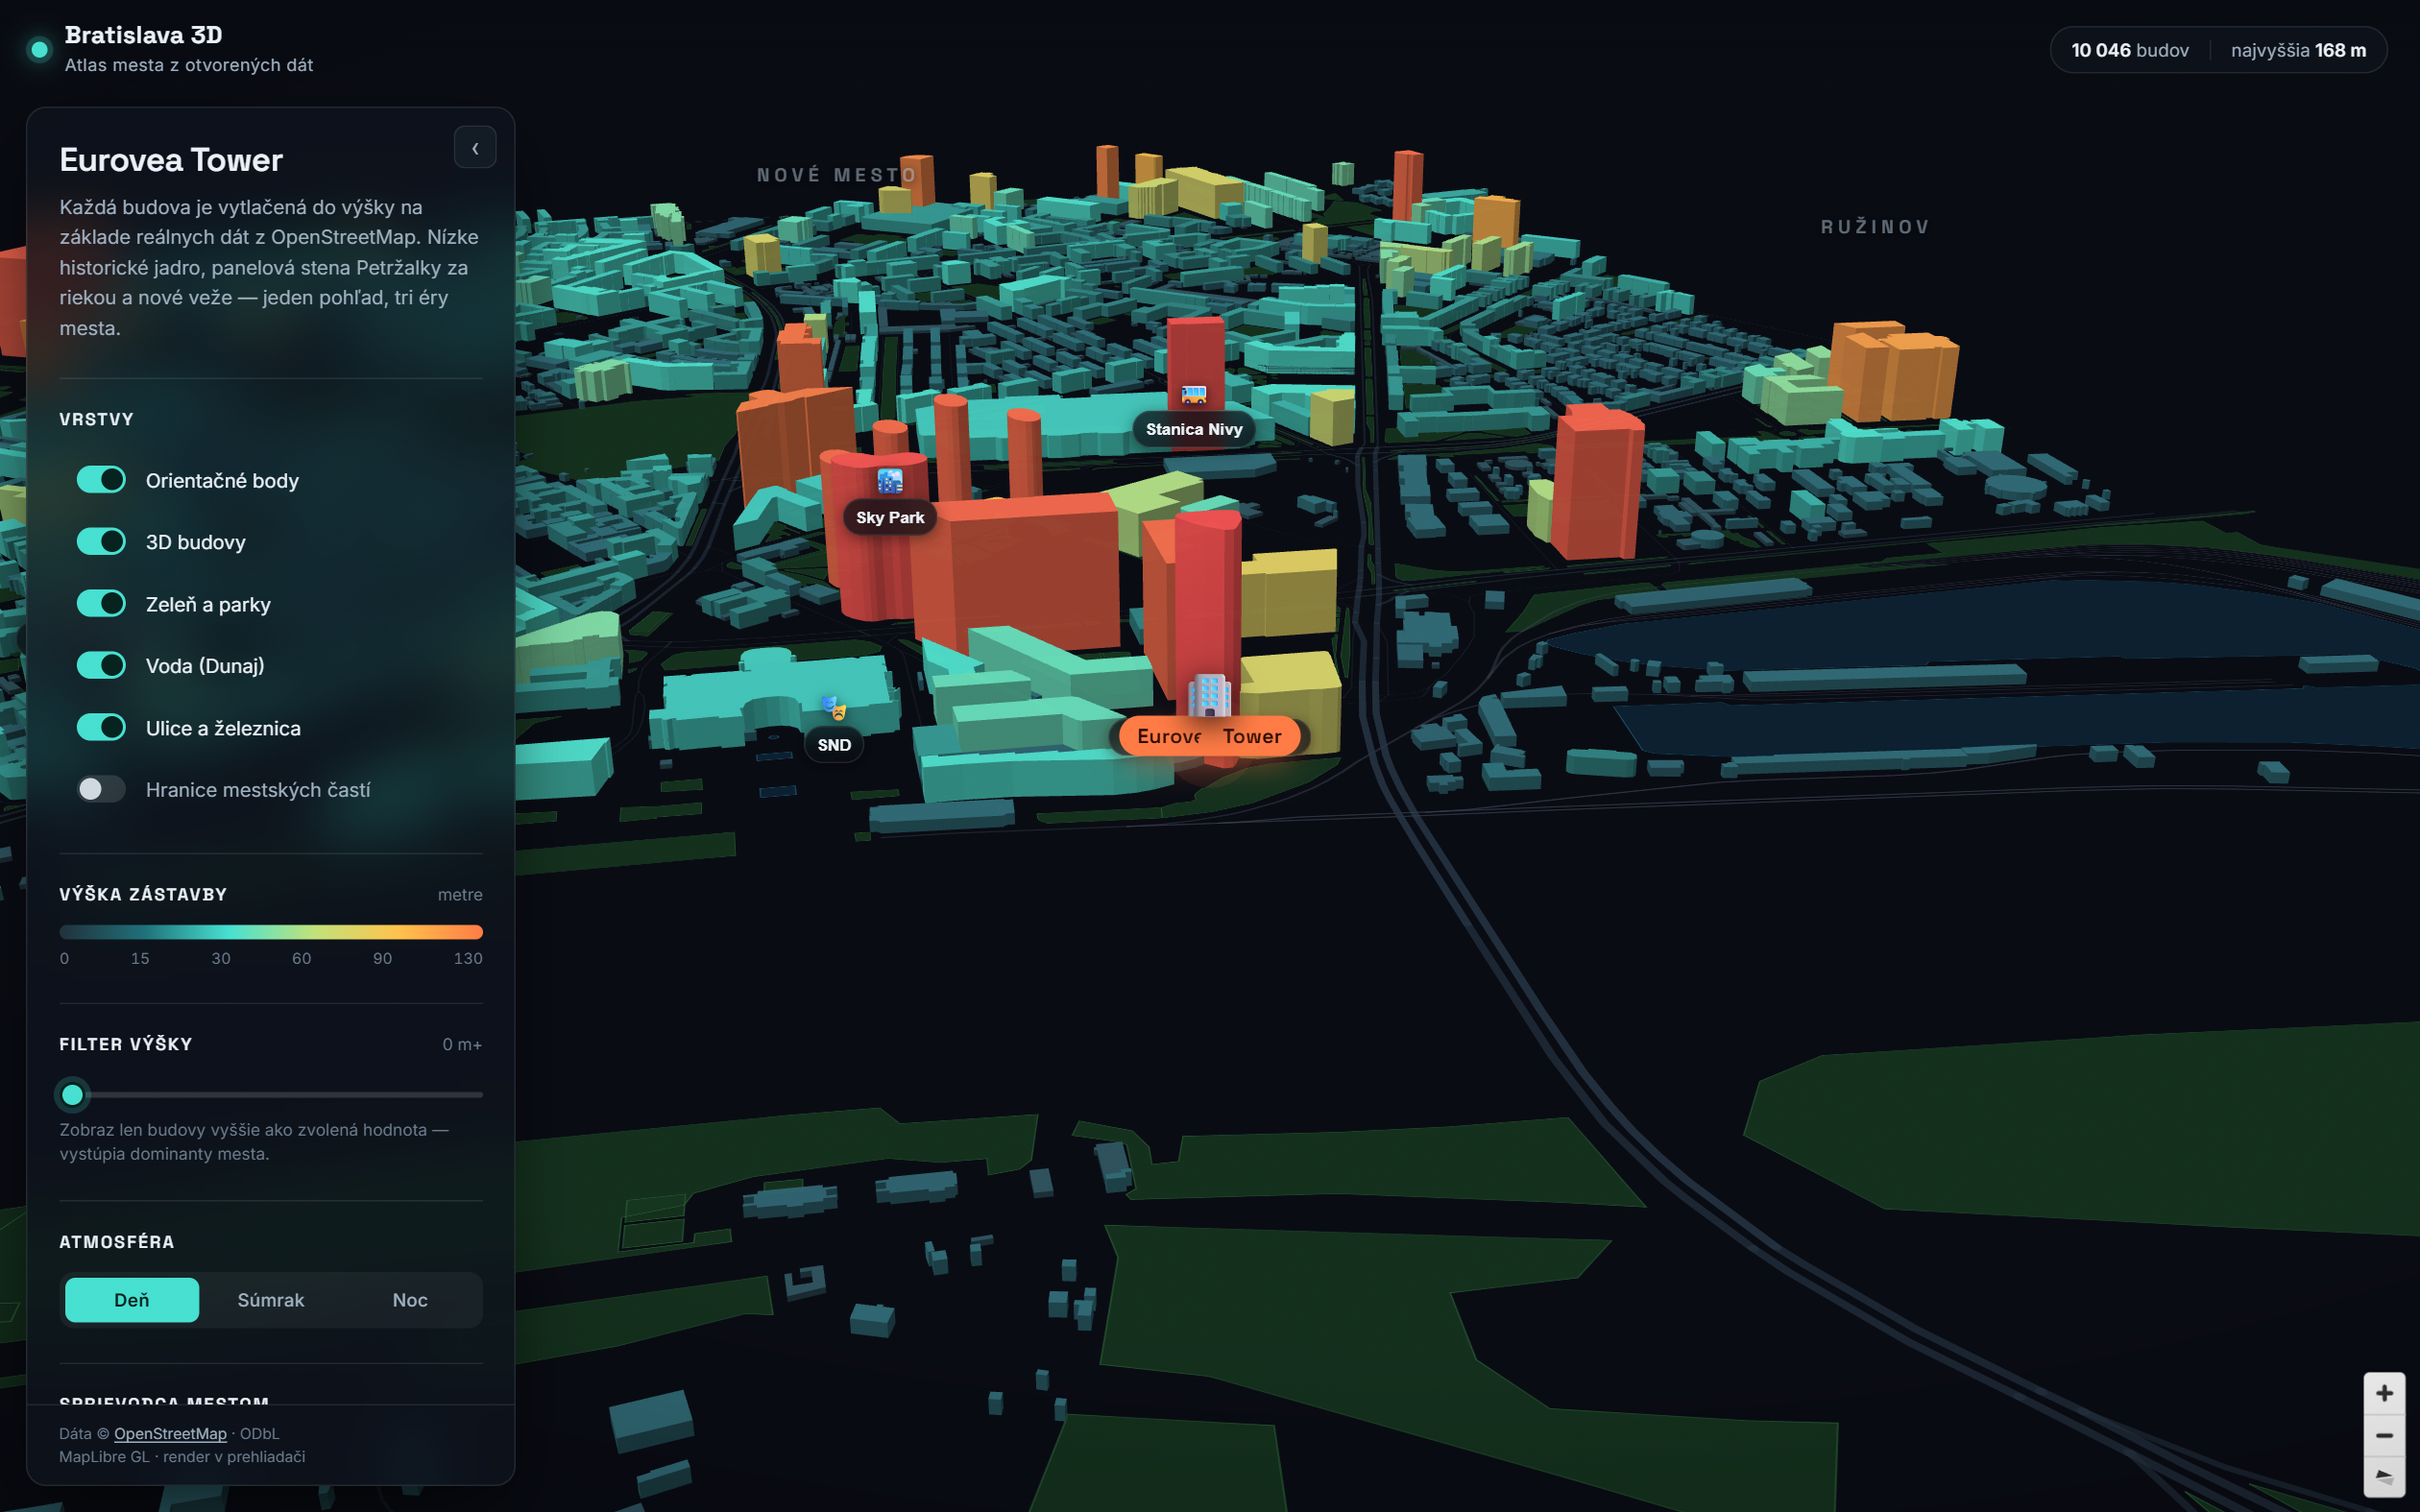
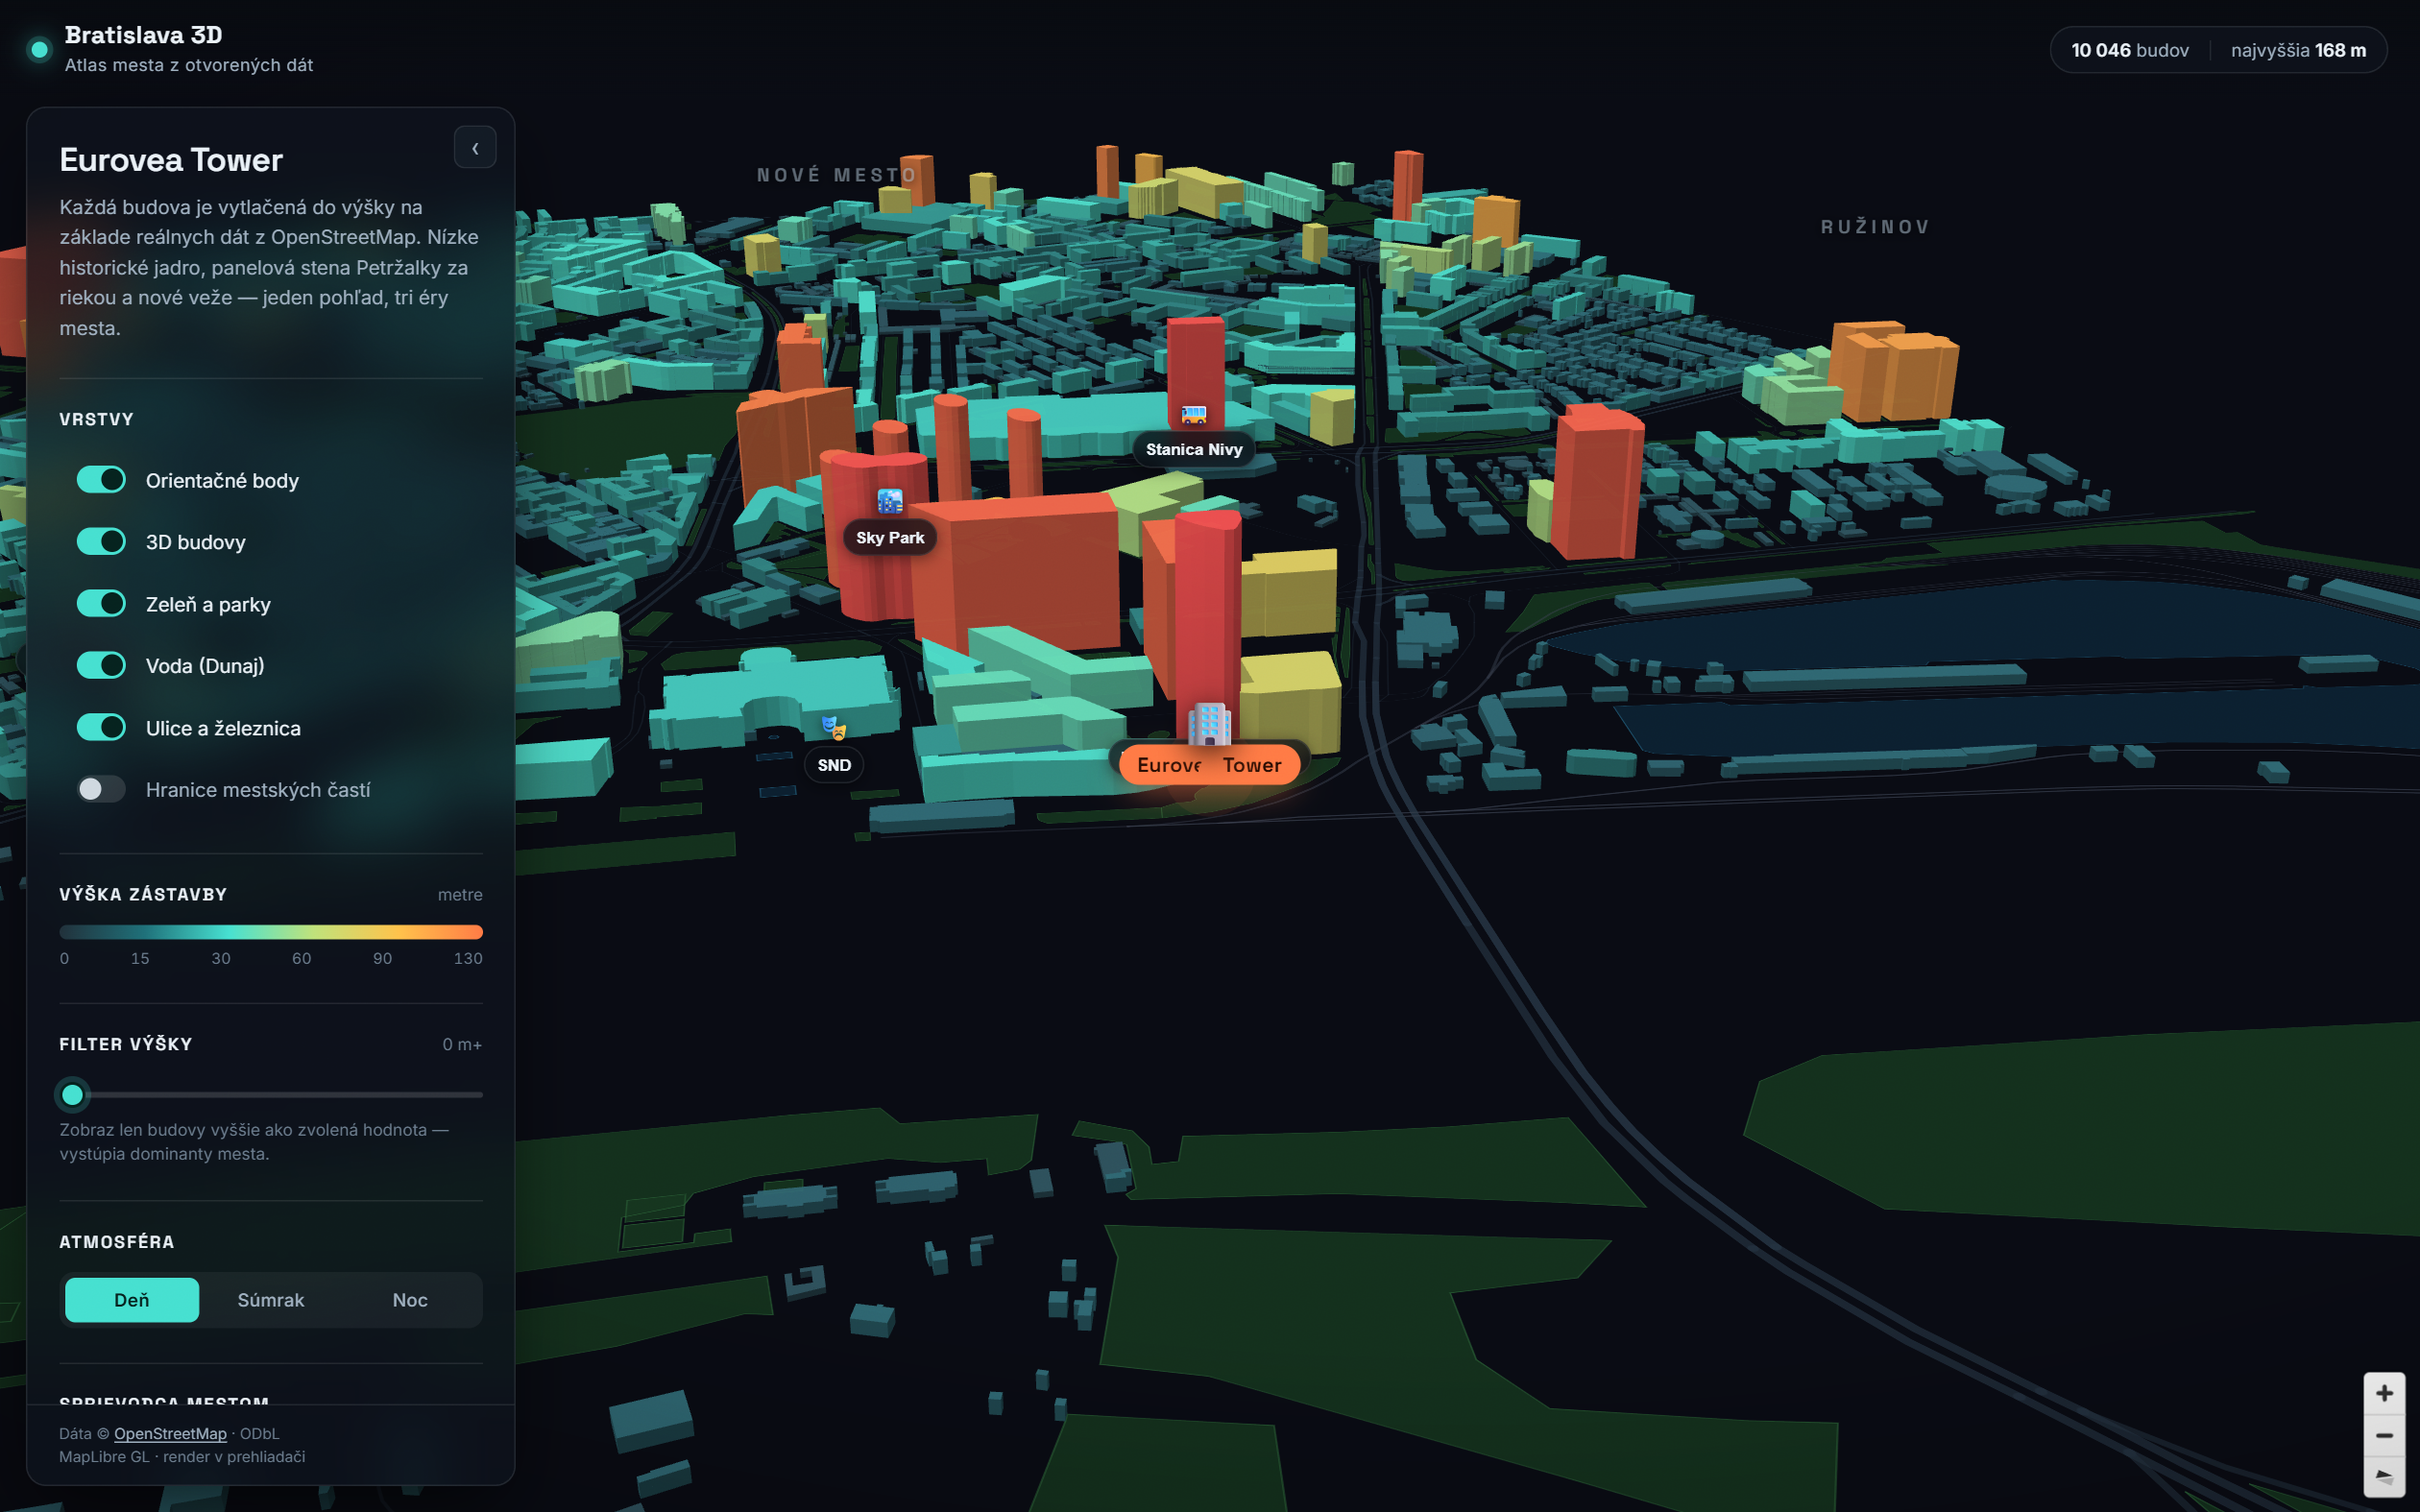
Posun špendlíkov nižšie, nech sa nekryjú s názvami miest

diff --git a/src/app.js b/src/app.js
@@ -209,7 +209,8 @@ function buildLandmarks() {
       el.className = 'lm lm-pin';
       el.innerHTML = `<span class="lm-dot">${lm.icon}</span><span class="lm-label">${lm.name}</span>`;
     }
-    const m = new maplibregl.Marker({ element: el, anchor: lm.t === 'area' ? 'center' : 'bottom' })
+    const m = new maplibregl.Marker({ element: el, anchor: lm.t === 'area' ? 'center' : 'bottom',
+        offset: lm.t === 'area' ? [0, 0] : [0, 14] })   // pin nižšie, nech sa nekryje s názvami
       .setLngLat(lm.at).addTo(map);
     m._kind = lm.t;
     lmMarkers.push(m);
@@ -247,7 +248,7 @@ function setFocus(stop) {
   el.className = 'lm-focus';
   el.innerHTML = `<span class="lm-focus-ring"></span><span class="lm-focus-pin">${stop.icon}</span>`
     + `<span class="lm-focus-label">${stop.title}</span>`;
-  focusMarker = new maplibregl.Marker({ element: el, anchor: 'bottom' })
+  focusMarker = new maplibregl.Marker({ element: el, anchor: 'bottom', offset: [0, 20] })
     .setLngLat(stop.focus).addTo(map);
 }
 
